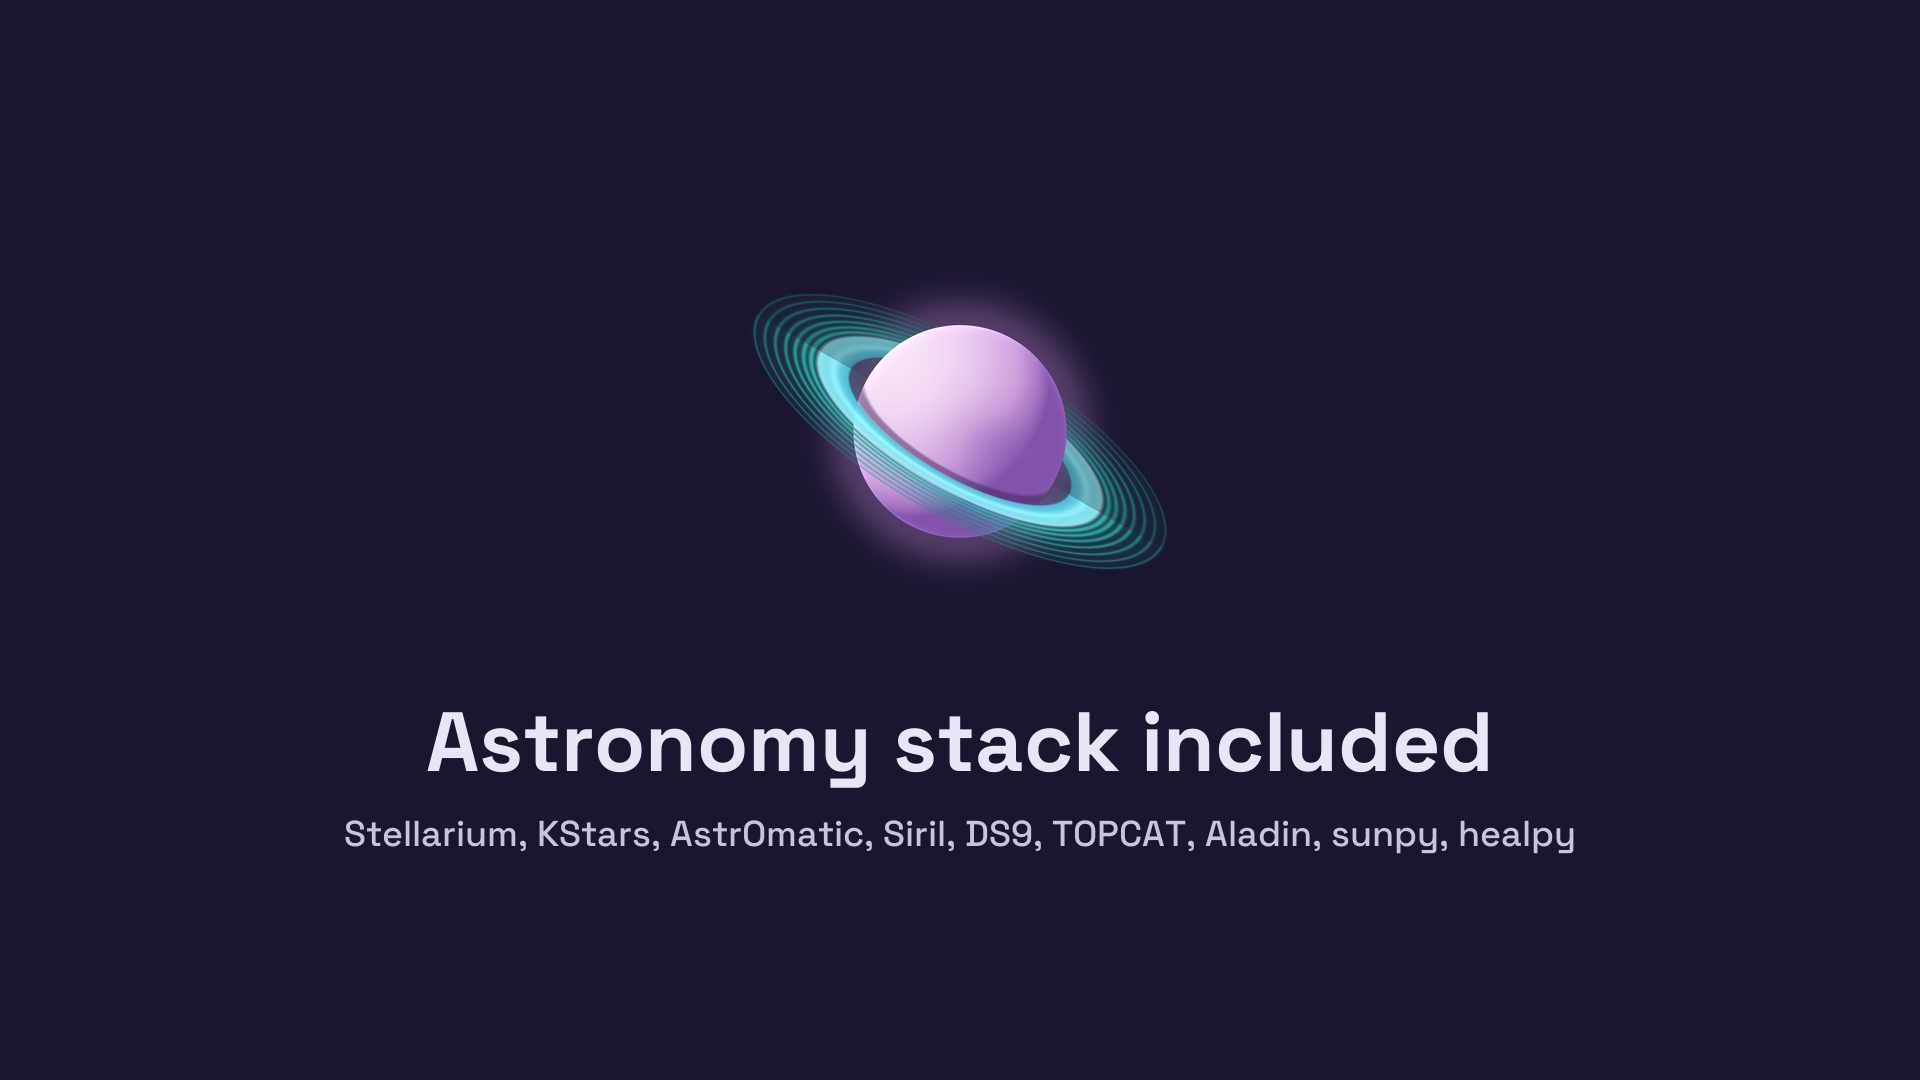
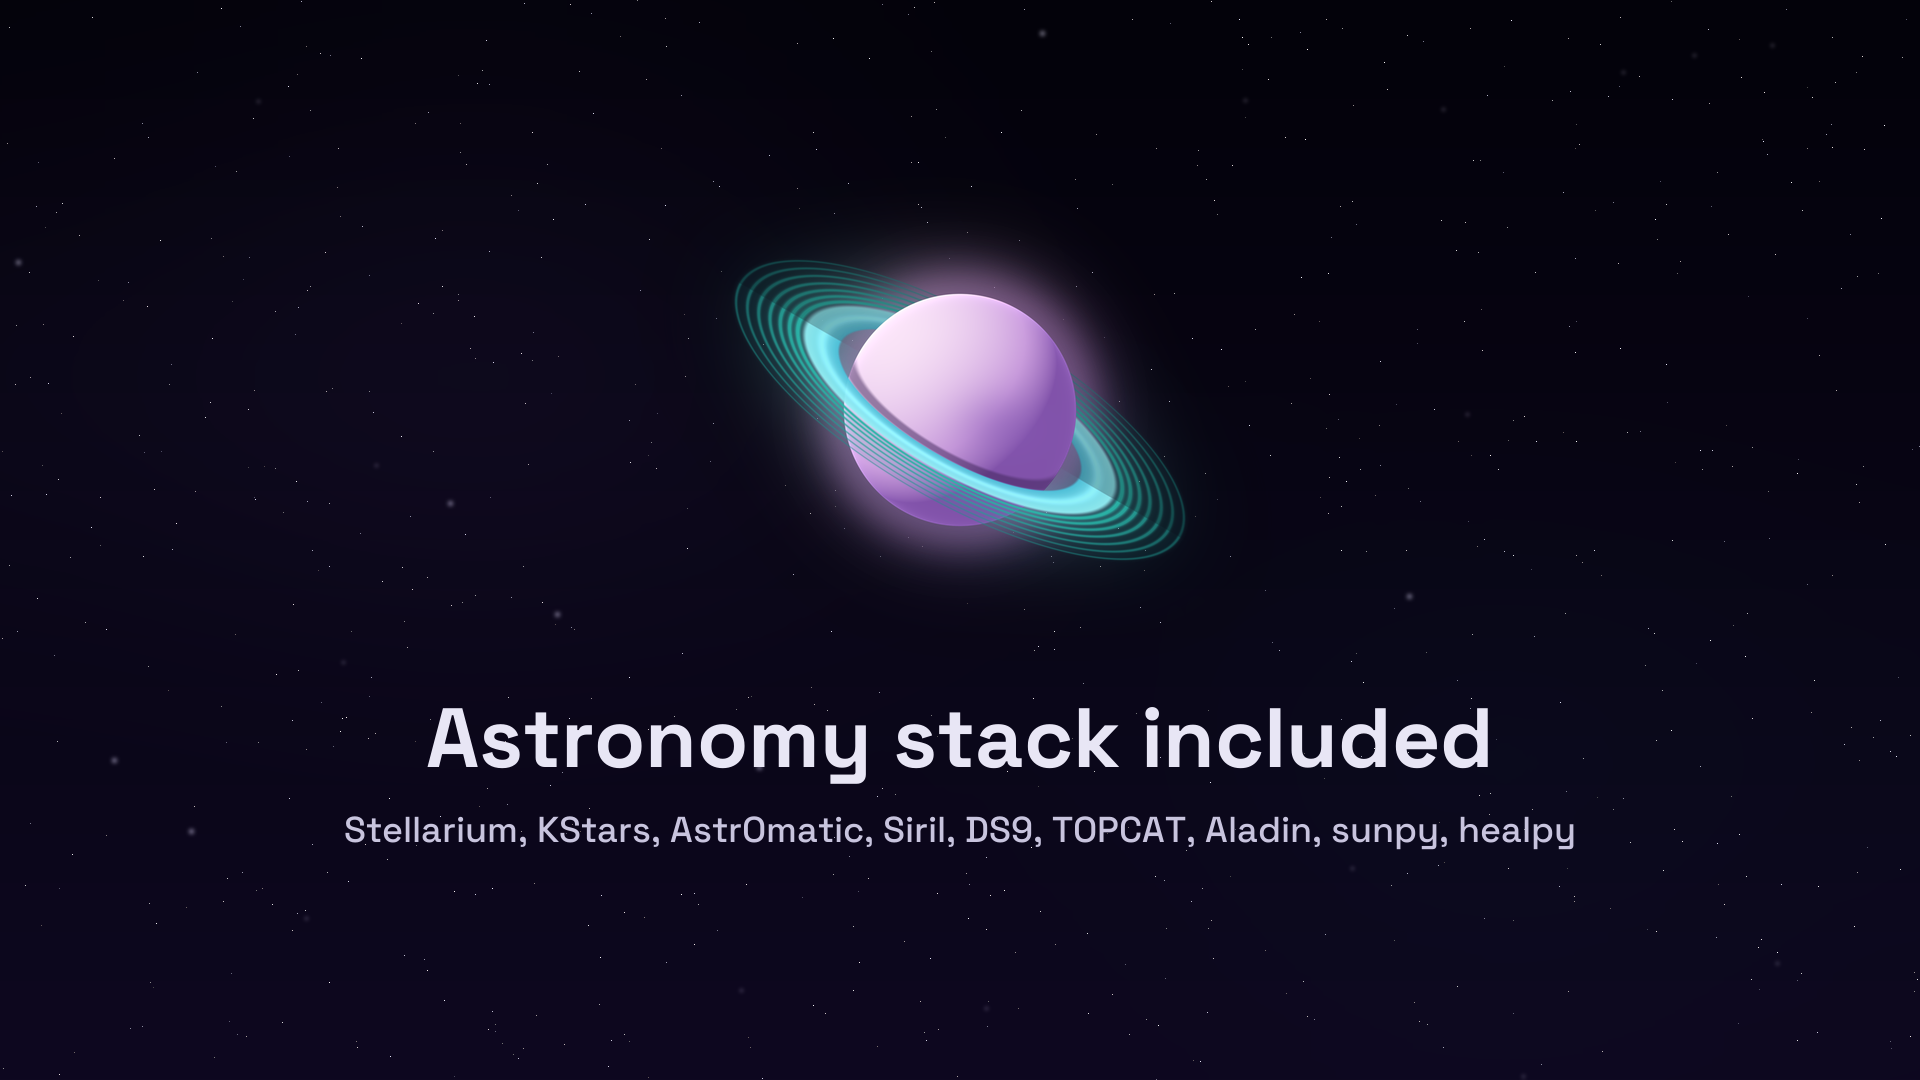
revert installer images

diff --git a/astroos/branding/assetgen.py b/astroos/branding/assetgen.py
@@ -38,11 +38,6 @@ STAR_SEED = 20260825  # reproducible starfield
 # palette (shared with logo.py's planet)
 SPACE_TOP = (3, 2, 10)
 SPACE_BOTTOM = (14, 8, 32)
-SPACE_WINDOW = (
-    27,
-    22,
-    48,
-)  # palette "window": the flat surface the installer images sit on
 NEBULA_LAVENDER = (108, 79, 176)
 NEBULA_TEAL = (31, 127, 138)
 TEXT_MAIN = (232, 230, 245)
@@ -329,37 +324,6 @@ SLIDES = (
 )
 
 
-def plain_scene(
-    logo, w, h, logo_frac, logo_cy, title=None, subtitle=None, title_px=0, sub_px=0
-):
-    """A flat brand surface (the window colour), the planet as drawn, and at
-    most two lines of text. The installer's images since 2026-09-06: the
-    starfield, nebula and glow version of the welcome page read as overdone
-    next to the plain pages around it (owner's note), and CachyOS's own
-    installer, the shape this one follows, shows a logo on a flat surface."""
-    im = Image.new("RGBA", (w, h), SPACE_WINDOW + (255,))
-    lw = int(w * logo_frac)
-    lh = int(logo.height * lw / logo.width)
-    im.alpha_composite(
-        logo.resize((lw, lh), Image.LANCZOS),
-        (int(w / 2 - lw / 2), int(h * logo_cy - lh / 2)),
-    )
-    if title or subtitle:
-        d = ImageDraw.Draw(im)
-        y = h * logo_cy + lh / 2 + h * 0.06
-        if title:
-            d.text((w / 2, y), title, font=_font(title_px), fill=TEXT_MAIN, anchor="ma")
-        if subtitle:
-            d.text(
-                (w / 2, y + title_px * 1.45),
-                subtitle,
-                font=_font(sub_px, 500),
-                fill=TEXT_SUB,
-                anchor="ma",
-            )
-    return im
-
-
 def calamares(logo, outdir):
     """Installer branding component images (sizes match the upstream component)."""
     d = os.path.join(outdir, "calamares")
@@ -367,11 +331,19 @@ def calamares(logo, outdir):
     sq = square(logo)
     sq.resize((64, 64), Image.LANCZOS).save(os.path.join(d, "logo.png"))
     sq.resize((128, 128), Image.LANCZOS).save(os.path.join(d, "icon.png"))
-    # the welcome page: the planet on the flat surface, nothing else; the
-    # page's own heading already says whose installer it is
-    plain_scene(logo, 900, 516, 0.30, 0.50).save(os.path.join(d, "welcome.png"))
+    scene(
+        logo,
+        900,
+        516,
+        0.30,
+        0.40,
+        "AstroOS",
+        "Research workstation. Built on Arch Linux.",
+        56,
+        24,
+    ).save(os.path.join(d, "welcome.png"))
     for i, (title, sub) in enumerate(SLIDES, start=1):
-        plain_scene(logo, 1920, 1080, 0.22, 0.40, title, sub, 84, 36).save(
+        scene(logo, 1920, 1080, 0.24, 0.38, title, sub, 84, 36).save(
             os.path.join(d, f"slide{i}.png")
         )
 
